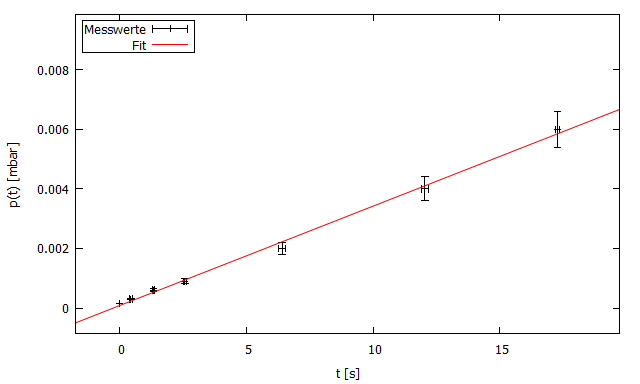
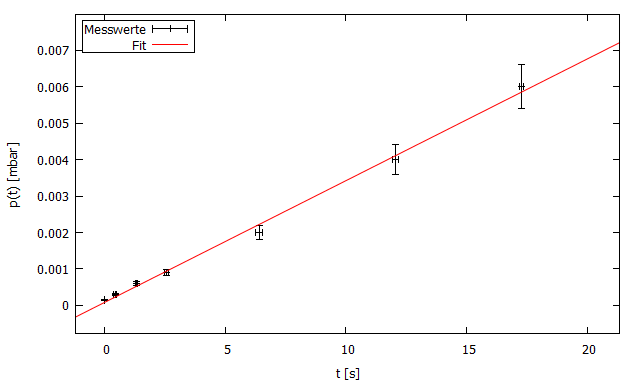
Korrektur :watermelon:
Sollte alles sein :+1:

diff --git a/V70 Vakuumphysik/content/auswertung.tex b/V70 Vakuumphysik/content/auswertung.tex
@@ -97,14 +97,14 @@ $(1,6 \pm \, 0,2)\cdot 10^{-5}$ & - & - &  -& -& -& -& -& -& -& - \\
 
 \begin{figure}[H]
   \centering
-  \includegraphics[width=14cm]{bilder/the final final plot.png}
+  \includegraphics[width=14cm]{bilder/thefinalfinalplot.png}
   \caption{Exponentielle Darstellung der Evakuierungskurve der Turbomolekularpumpe.}
   \label{turboexponential}
 \end{figure}
 
 \begin{figure}[H]
   \centering
-  \includegraphics[width=14cm]{bilder/turbodruck plot.png}
+  \includegraphics[width=14cm]{bilder/turbodruckplot.png}
   \caption{Logarithmische Darstellung der Evakuierungskurve der Turbomolekularpumpe.}
   \label{turboplot}
 \end{figure}
@@ -236,30 +236,30 @@ das Saugvermögen $S$ berechnet.\\
 Abbildung $\ref{leckrate1}$:
 	\begin{align*}
 		p_G=& (5,0 \pm \, 0,5)\cdot 10^{-5} \, \si{mbar}\\
-		m_1=& (5,48 \pm 0,22)\cdot 10^{-5} \, \si{mbar/s}\\
-		b_1=& (6,80 \pm 1,48)\cdot 10^{-5} \, \si{mbar}\\
-		S_1=& \SI{11,0 \pm 1,5}{l/s}
+		m_1=& (6,13 \pm 0,17)\cdot 10^{-5} \, \si{mbar/s}\\
+		b_1=& (3 \pm 5)\cdot 10^{-5} \, \si{mbar}\\
+		S_1=& \SI{12,3 \pm 1,6}{l/s}
 	\end{align*}
 	Abbildung $\ref{leckrate2}$:
 		\begin{align*}
 			p_G=& (10 \pm \, 1)\cdot 10^{-5} \, \si{mbar}\\
-			m_2=& (1,78 \pm 0,03)\cdot 10^{-4} \, \si{mbar/s}\\
-			b_2=& (1,04 \pm 0,14)\cdot 10^{-4} \, \si{mbar}\\
-			S_2=& \SI{17,8 \pm 2,3}{l/s}
+			m_2=& (1,86 \pm 0,07)\cdot 10^{-4} \, \si{mbar/s}\\
+			b_2=& (9,9 \pm 0,8)\cdot 10^{-4} \, \si{mbar}\\
+			S_2=& \SI{18,6 \pm 2,5}{l/s}
 		\end{align*}
 		Abbildung $\ref{leckrate3}$:
 			\begin{align*}
 				p_G=& (1,5 \pm \, 0,2)\cdot 10^{-4} \, \si{mbar}\\
-				m_3=& (3,36 \pm 0,09)\cdot 10^{-4} \, \si{mbar/s}\\
+				m_3=& (3,34 \pm 0,09)\cdot 10^{-4} \, \si{mbar/s}\\
 				b_3=& (7,87 \pm 7,30)\cdot 10^{-5} \, \si{mbar}\\
-				S_3=& \SI{22,4 \pm 3,5}{l/s}
+				S_3=& \SI{22,3 \pm 3,6}{l/s}
 			\end{align*}
 		Abbildung $\ref{leckrate4}$:
 			\begin{align*}
 				p_G=& (2,0 \pm \, 0,2)\cdot 10^{-4} \, \si{mbar}\\
-				m_4=& (4,36 \pm \, 0,12)\cdot 10^{-4} \, \si{mbar/s}\\
-				b_4=& (5,60 \pm \, 1,13)\cdot 10^{-4} \, \si{mbar}\\
-				S_4=& \SI{21,8 \pm 2,9}{l/s}
+				m_4=& (4,4 \pm \, 0,2)\cdot 10^{-4} \, \si{mbar/s}\\
+				b_4=& (0,6 \pm \, 1,1)\cdot 10^{-4} \, \si{mbar}\\
+				S_4=& \SI{22 \pm 3}{l/s}
 			\end{align*}
 
 \subsection{Drehschieberpumpe}
@@ -305,7 +305,7 @@ Es folgt die graphische Darstellung der logarithmierten Werte aus Tabelle $\ref{
 \end{figure}
 \begin{figure}[H]
   \centering
-  \includegraphics[width=14cm]{bilder/evakuierung Dreh.png}
+  \includegraphics[width=14cm]{bilder/evakuierungDreh.png}
   \caption{Logarithmische Darstellung der Evakuierungskurve der Drehschieberpumpe.}
   \label{evakuierungdreh}
 \end{figure}
@@ -318,21 +318,21 @@ erstellt.\\
 Durch die Regressionsberechnung ergeben sich folgende Parameter für die drei Bereiche und das daraus durch $S=-mV$ errechnete Saugvermögen:\\
 Bereich 1: $\SI{1000}{mbar} \geq p \geq \SI{10}{mbar}$\\
 \begin{align*}
-	m_1=& -\SI{0,11 \pm 0,02}{1/s}\\
-	b_1=& \si{0,37 \pm 0,70}\\
-	S_1=& \SI{1,20 \pm 0,24}{l/s}
+	m_1=& -\SI{0,09 \pm 0,02}{1/s}\\
+	b_1=& -\si{0,33 \pm 0,39}\\
+	S_1=& \SI{0,98 \pm 0,23}{l/s}
 \end{align*}
 Bereich 2: $\SI{10}{mbar} \geq p \geq \SI{0,6}{mbar}$\\
 \begin{align*}
-	m_2=& -\SI{0,10 \pm 0,00}{1/s}\\
+	m_2=& -\SI{0,100 \pm 0,002}{1/s}\\
 	b_2=& \si{0,22 \pm 0,11}\\
-	S_2=& \SI{1,09 \pm 0,08}{l/s}
+	S_2=& \SI{1,09 \pm 0,09}{l/s}
 \end{align*}
 Bereich 3: $\SI{0,6}{mbar} \geq p \geq \SI{0,06}{mbar}$\\
 \begin{align*}
-	m_3=& -\SI{0,07 \pm 0,00}{1/s}\\
+	m_3=& -\SI{0,071 \pm 0,003}{1/s}\\
 	b_3=& -\si{(1,93 \pm 0,27)}\\
-	S_3=& \SI{0,76 \pm 0,06}{l/s}
+	S_3=& \SI{0,77 \pm 0,07}{l/s}
 \end{align*}
 
 \subsubsection{Leckratenmessung}
@@ -405,54 +405,54 @@ Anschließend lassen sich die graphischen Darstellungen in den Abbildungen $\ref
 \begin{figure}[H]
   \centering
   \includegraphics[width=14cm]{bilder/leckdrehfit1.png}
-	\caption{Graphische Darstellung der Leckratenmessung der Drehschieberpumpe für $p_G=(1,0 \pm \, 0,1)  \, \si{mbar}$.}
+	\caption{Graphische Darstellung der Leckratenmessung der Drehschieberpumpe für $p_G=(1,0 \pm \, 0,3)  \, \si{mbar}$.}
   \label{leckdreh1}
 \end{figure}
 \begin{figure}[H]
   \centering
   \includegraphics[width=14cm]{bilder/leckdrehfit2.png}
-	\caption{Graphische Darstellung der Leckratenmessung der Drehschieberpumpe für $p_G=(0,80 \pm \, 0,08) \, \si{mbar}$.}
+	\caption{Graphische Darstellung der Leckratenmessung der Drehschieberpumpe für $p_G=(0,80 \pm \, 0,24) \, \si{mbar}$.}
   \label{leckdreh2}
 \end{figure}
 \begin{figure}[H]
   \centering
   \includegraphics[width=14cm]{bilder/leckdrehfit3.png}
-	\caption{Graphische Darstellung der Leckratenmessung der Drehschieberpumpe für $p_G=(0,40 \pm \, 0,04) \, \si{mbar}$.}
+	\caption{Graphische Darstellung der Leckratenmessung der Drehschieberpumpe für $p_G=(0,40 \pm \, 0,12) \, \si{mbar}$.}
   \label{leckdreh3}
 \end{figure}
 \begin{figure}[H]
   \centering
   \includegraphics[width=14cm]{bilder/leckdrehfit4.png}
-	\caption{Graphische Darstellung der Leckratenmessung der Drehschieberpumpe für $p_G=(0,10 \pm \, 0,01) \, \si{mbar}$.}
+	\caption{Graphische Darstellung der Leckratenmessung der Drehschieberpumpe für $p_G=(0,10 \pm \, 0,03) \, \si{mbar}$.}
   \label{leckdreh4}
 \end{figure}
 Die Regressionsgeraden besitzen dieselbe lineare Form wie bei der Leckratenmessung der Turbopumpe auch und so lässt sich ebenso das Saugvermögen
 aus dem Steigungsparameter $m$ und dem Volumen $V$ mit $S=\frac{V}{p_G}m$ unter den verschiedenen Gleichgewichtsdrücken $p_G$ berechnen.\\
 Abbildung $\ref{leckdreh1}$:
 	\begin{align*}
-		p_G=& (1,0 \pm \, 0,1)  \, \si{mbar}\\
-		m_1=& (0,12 \pm 0,00) \, \si{mbar/s}\\
+		p_G=& (1,0 \pm \, 0,3)  \, \si{mbar}\\
+		m_1=& (0,12 \pm 0,002) \, \si{mbar/s}\\
 		b_1=& (1,11 \pm 0,12) \, \si{mbar}\\
-		S_1=& \SI{1,31 \pm 0,16}{l/s}
+		S_1=& \SI{1,31 \pm 0,41}{l/s}
 	\end{align*}
 	Abbildung $\ref{leckdreh2}$:
 		\begin{align*}
-			p_G=& (0,80 \pm \, 0,08) \, \si{mbar}\\
-			m_2=& (0,10 \pm 0,00) \, \si{mbar/s}\\
+			p_G=& (0,80 \pm \, 0,24) \, \si{mbar}\\
+			m_2=& (0,103 \pm 0,001) \, \si{mbar/s}\\
 			b_2=& (0,77 \pm 0,04) \, \si{mbar}\\
-			S_2=& \SI{1,36 \pm 0,17}{l/s}
+			S_2=& \SI{1,36 \pm 0,44}{l/s}
 		\end{align*}
 		Abbildung $\ref{leckdreh3}$:
 			\begin{align*}
-				p_G=& (0,40 \pm \, 0,04) \, \si{mbar}\\
-				m_3=& (0,04 \pm 0,00)\, \si{mbar/s}\\
+				p_G=& (0,40 \pm \, 0,12) \, \si{mbar}\\
+				m_3=& (0,0418 \pm 0,0013)\, \si{mbar/s}\\
 				b_3=& (0,31 \pm 0,08) \, \si{mbar}\\
-				S_3=& \SI{1,09 \pm 0,14}{l/s}
+				S_3=& \SI{1,09 \pm 0,36}{l/s}
 			\end{align*}
 		Abbildung $\ref{leckdreh4}$:
 			\begin{align*}
-				p_G=& (0,10 \pm \, 0,01) \, \si{mbar}\\
-				m_4=& (0,01 \pm \, 0,00) \, \si{mbar/s}\\
-				b_4=& (0,15 \pm \, 0,02) \, \si{mbar}\\
-				S_4=& \SI{1,09 \pm 0,14}{l/s}
+				p_G=& (0,10 \pm \, 0,03) \, \si{mbar}\\
+				m_4=& (0,009 \pm \, 0,001) \, \si{mbar/s}\\
+				b_4=& (0,12 \pm \, 0,02) \, \si{mbar}\\
+				S_4=& \SI{0,98 \pm 0,33}{l/s}
 			\end{align*}

diff --git a/V70 Vakuumphysik/content/diskussion.tex b/V70 Vakuumphysik/content/diskussion.tex
@@ -9,4 +9,6 @@ Auch beim händischen Schließen der Ventile kann nicht garantiert werden, dass 
 Bei der Drehschieberpumpe hingegen stimmen die Messergebnisse innerhalb der Messungenauigkeit mit der Herstellerangabe von $\SI{1,1}{l/s}$ überein.
 Das Ablesen der Messgeräte und das Stoppen erfolgte fast zeitgleich, sodass schon während der Messung große Abweichungen aufgefallen sind.
 Eine Automatisierung der Zeitnahme und ein gesichertes genaues Ablesen der Skala, gerade auf der logarithmischen, würde die gesamten Messungen präzisieren.
-Ebenso wäre es förderlich, keine Verengung der Rohre einzubauen, da dies bereits in kleinem Maße große Auswirkungen auf das Saugvermögen hat.
+Ebenso wäre es förderlich, keine Verengung der Rohre einzubauen, da dies bereits in kleinem Maße große Auswirkungen auf das Saugvermögen hat.\\
+Bei der Untersuchung der Drehschieberpumpe per Leckratenmessung fallen für $p_G=(0,10 \pm \, 0,03) \, \si{mbar}$ starke Abweichungen auf, welche durch virtuelles Pumpen enstanden sind. Diese Messwerte wurden für
+die Ausgleichsrechnung ausgelassen.
